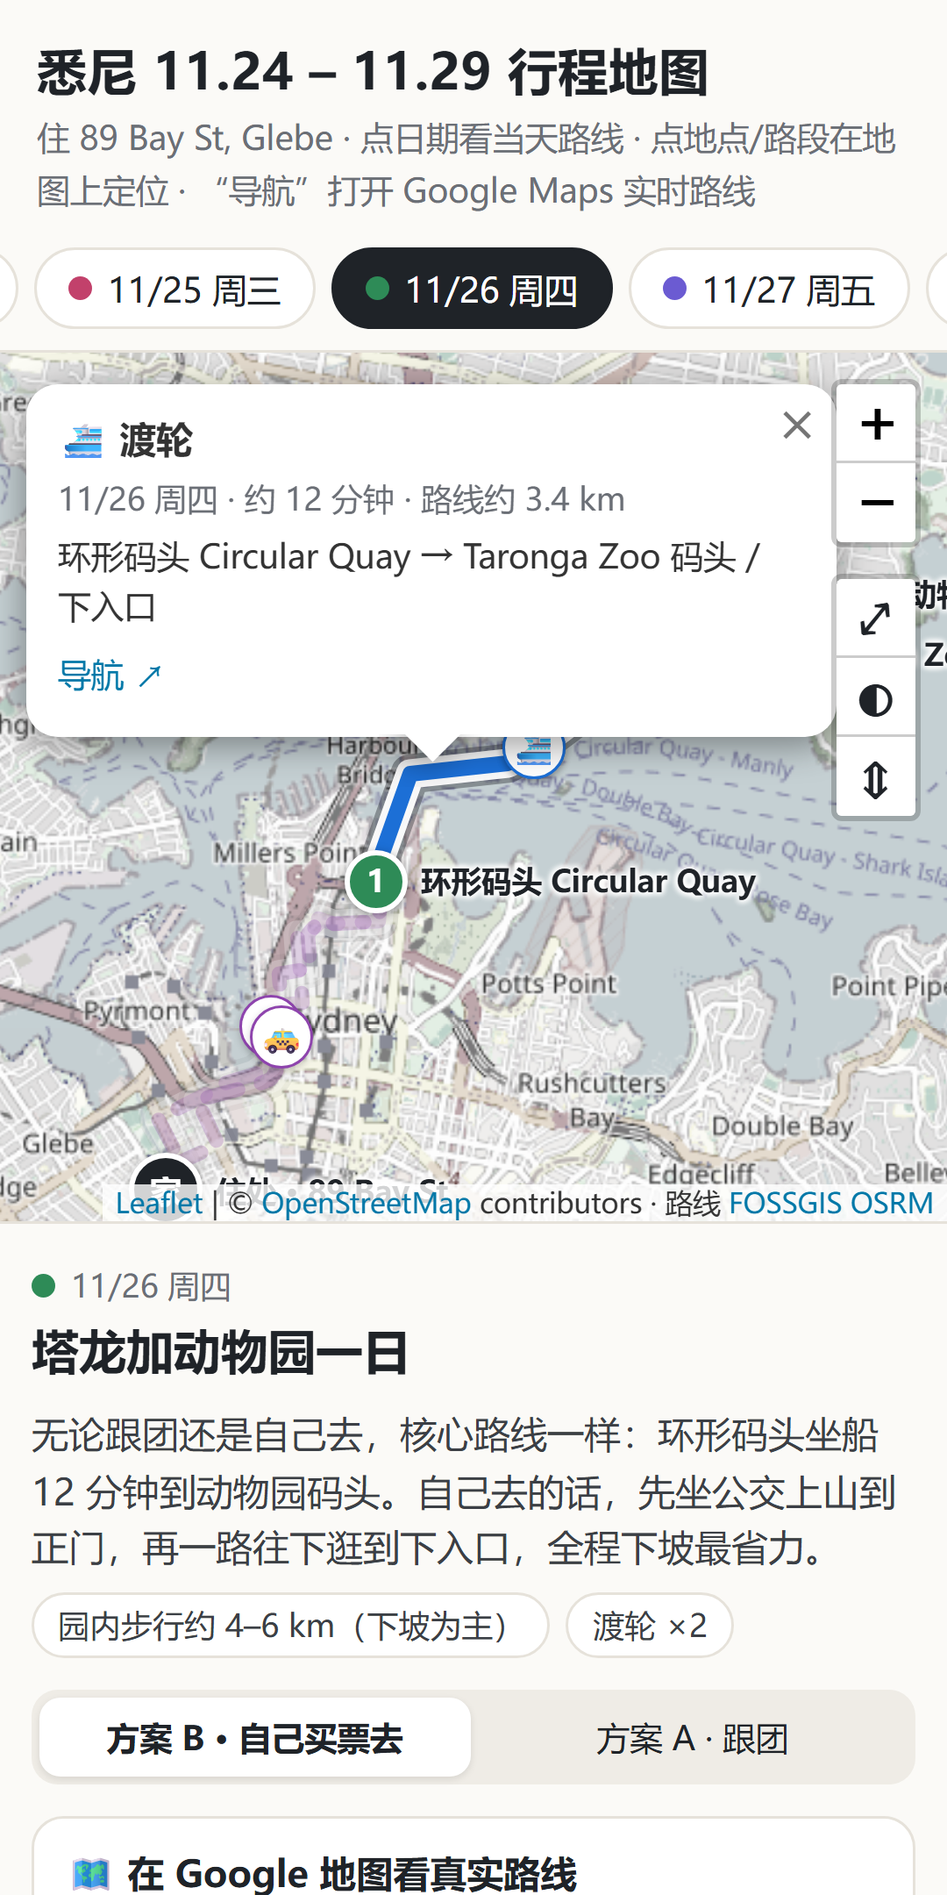
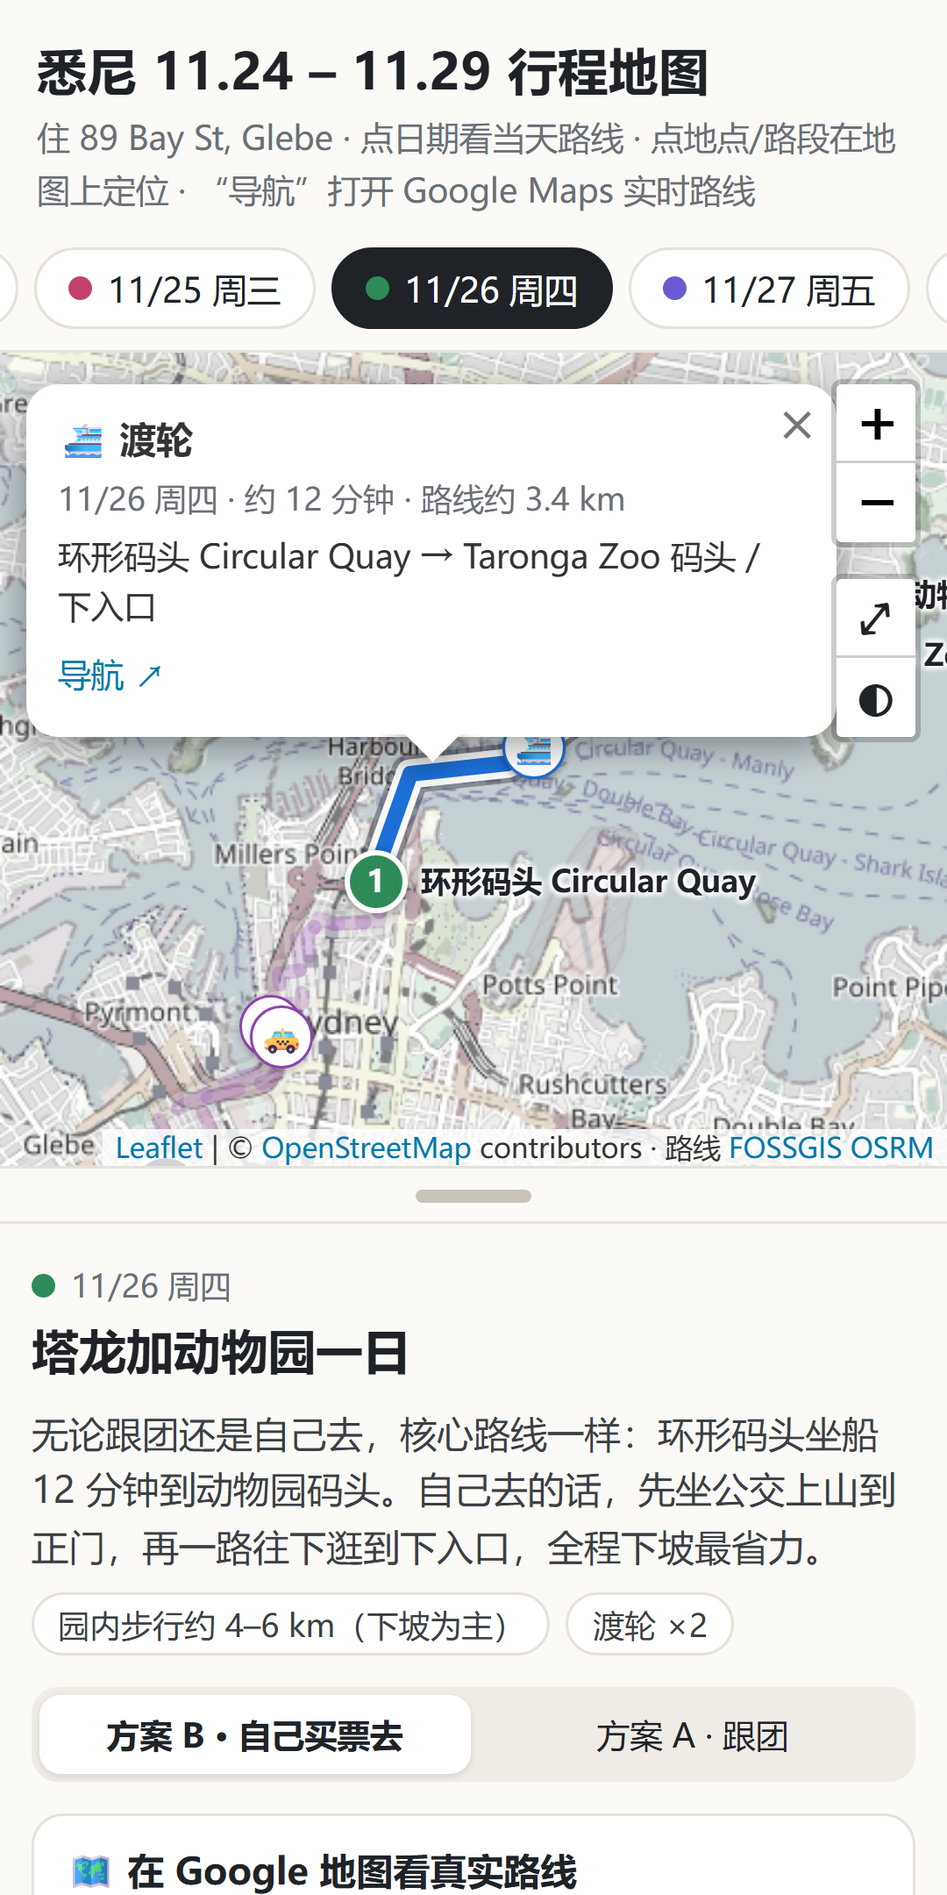
Select a stop without zooming; drag handle to resize map on phones
- Tapping a stop (timeline or map) now only pans the map, keeping the
  current zoom. The stop and the leg that arrives at it are highlighted
  and other legs are dimmed; the matching timeline rows are marked.
- Tapping a leg pans to it at the current zoom and only zooms out when
  the leg does not fit; it never zooms in. Same-zoom moves use panTo
  instead of flyTo, so there is no zoom-out/zoom-in bounce.
- Popups no longer use keepInView, so after selecting a stop the map
  can be dragged away freely instead of snapping back.
- Phones get a drag handle between the map and the timeline (replacing
  the expand button). Dragging resizes the map, a tap toggles between
  the default and a tall map, the height is remembered per device, and
  the handle always stays on screen.

Tests cover these on iPhone 15 Pro, iPhone SE and Mate 40 (181 checks).

diff --git a/app.js b/app.js
@@ -52,11 +52,10 @@ L.control.zoom({position:"topright",zoomInTitle:"放大",zoomOutTitle:"缩小"})
 // 自定义按钮：显示当天全部 / 展开地图（手机）
 const Btns=L.Control.extend({options:{position:"topright"},onAdd(){
   const c=L.DomUtil.create("div","leaflet-bar");
-  c.innerHTML=`<a href="#" class="ctl ctl-fit" title="显示当天全部" aria-label="显示当天全部" role="button">⤢</a><a href="#" class="ctl ctl-base" title="底图：淡化 / 原色" aria-label="切换底图颜色" role="button">◐</a><a href="#" class="ctl ctl-exp" title="展开/收起地图" aria-label="展开地图" role="button">⇕</a>`;
+  c.innerHTML=`<a href="#" class="ctl ctl-fit" title="显示当天全部" aria-label="显示当天全部" role="button">⤢</a><a href="#" class="ctl ctl-base" title="底图：淡化 / 原色" aria-label="切换底图颜色" role="button">◐</a>`;
   L.DomEvent.disableClickPropagation(c);
   c.querySelector(".ctl-fit").onclick=e=>{e.preventDefault();fitDay()};
   c.querySelector(".ctl-base").onclick=e=>{e.preventDefault();const v=mapwrap.classList.toggle("vivid");lsSet("basemap",v?"vivid":"soft")};
-  c.querySelector(".ctl-exp").onclick=e=>{e.preventDefault();toggleBig()};
   return c}});
 new Btns().addTo(map);
 
@@ -185,7 +184,7 @@ map.on("mousemove",e=>{if(coarse)return;cancelAnimationFrame(hoverRaf);hoverRaf=
 map.on("mouseout dragstart zoomstart",hideTip);
 
 /* ---------- 弹窗（autoPan + 宽度随地图，保证不超出地图） ---------- */
-function popOpts(){const w=mapwrap.clientWidth;return{maxWidth:Math.max(160,Math.min(270,w-70)),minWidth:Math.min(170,w-90),autoPan:true,keepInView:true,
+function popOpts(){const w=mapwrap.clientWidth;return{maxWidth:Math.max(160,Math.min(270,w-70)),minWidth:Math.min(170,w-90),autoPan:true,keepInView:false,/* 只在弹窗打开时挪一次，之后可以自由拖走地图 */
   autoPanPaddingTopLeft:L.point(10,isNarrow()?12:56),autoPanPaddingBottomRight:L.point(10,24),closeButton:true,className:"pp"}}
 function openStopPop(d,p){
   const pl=P[p];const items=visibleItems(d).filter(i=>!i.leg&&i.p===p);const it=items[0];
@@ -228,6 +227,7 @@ function flyView(b,o){
   const c=map.unproject(map.project(b.getCenter(),z).add(off),z);
   const far=Math.abs(z-map.getZoom())>.01||map.latLngToContainerPoint(c).distanceTo(sz.divideBy(2))>2;
   if(!far){map.fire("moveend");return}
+  if(Math.abs(z-map.getZoom())<.01){map.panTo(c,{animate:true,duration:.45});return} // 同一缩放只平移，不做 flyTo 的“先缩小再放大”
   try{map.flyTo(c,z,{duration:.55})}catch(e){map.setView(c,z,{animate:false})}
 }
 function flyPoint(ll,z){
@@ -244,12 +244,35 @@ function fitDay(){
   visibleItems(d).forEach(i=>{if(i.leg)legPath(i).forEach(p=>all.push(p));else all.push(P[i.p].ll)});
   fitLL(all,{maxZoom:17,top:isNarrow()?20:30});
 }
-function toggleBig(){
-  mapwrap.classList.toggle("big");const big=mapwrap.classList.contains("big");
-  const b=document.querySelector(".ctl-exp");b.textContent=big?"⇡":"⇕";b.setAttribute("aria-label",big?"收起地图":"展开地图");
-  setTimeout(()=>{map.invalidateSize();setMapH();},260);
+/* ---------- 手机：地图和行程之间的拖动条，上下拖调地图高度；轻点在默认/大半屏之间切换 ---------- */
+const resizer=document.getElementById("resizer");
+let rz=null,rzRaf=0;
+function setMapHeight(px,save){
+  // 最高到拖动条仍留在屏幕里（页面在顶部时标题还占着位置，地图的顶边更低）
+  const top=Math.max(tabs.offsetHeight,mapwrap.getBoundingClientRect().top);
+  const min=160,max=Math.max(min,window.innerHeight-top-40);
+  const h=Math.round(Math.min(max,Math.max(min,px)));
+  document.documentElement.style.setProperty("--mapH",h+"px"); // 同时用于时间线条目的 scroll-margin
+  cancelAnimationFrame(rzRaf);rzRaf=requestAnimationFrame(()=>map.invalidateSize({pan:false}));
+  if(save)lsSet("mapH",(h/window.innerHeight).toFixed(3));
 }
-function setMapH(){document.documentElement.style.setProperty("--mapHpx",mapwrap.offsetHeight+"px")}
+function rzStart(y){rz={y0:y,h0:mapwrap.offsetHeight,moved:false};mapwrap.classList.add("resizing");hideTip()}
+function rzMove(y){if(!rz)return;const dy=y-rz.y0;if(Math.abs(dy)>4)rz.moved=true;if(rz.moved)setMapHeight(rz.h0+dy)}
+function rzEnd(){
+  if(!rz)return;const r=rz;rz=null;mapwrap.classList.remove("resizing");
+  if(!r.moved)setMapHeight(window.innerHeight*(mapwrap.offsetHeight<window.innerHeight*.6?.74:.46),true);
+  else setMapHeight(mapwrap.offsetHeight,true);
+  setTimeout(()=>map.invalidateSize({pan:false}),260);
+}
+// 用触摸事件 + 鼠标事件（iOS / 安卓 / 桌面都支持）
+resizer.addEventListener("touchstart",e=>{if(e.cancelable)e.preventDefault();e.stopPropagation();rzStart(e.touches[0].clientY)},{passive:false});
+document.addEventListener("touchmove",e=>{if(!rz)return;if(e.cancelable)e.preventDefault();rzMove(e.touches[0].clientY)},{passive:false});
+document.addEventListener("touchend",()=>rzEnd());
+document.addEventListener("touchcancel",()=>rzEnd());
+resizer.addEventListener("mousedown",e=>{e.preventDefault();rzStart(e.clientY)});
+document.addEventListener("mousemove",e=>{if(rz)rzMove(e.clientY)});
+document.addEventListener("mouseup",()=>rzEnd());
+function restoreMapH(){const f=parseFloat(lsGet("mapH"));if(isNarrow()&&f>0)setMapHeight(window.innerHeight*f)}
 
 /* ======================= Google Maps 链接（同原页面） ======================= */
 const enc=encodeURIComponent;
@@ -302,8 +325,8 @@ function renderLegend(){
   const used=new Set(legsOf(dayById(state.day)).map(l=>l.mode));
   lg.innerHTML=Object.entries(MODES).filter(([k])=>used.has(k)).map(([k,m])=>`<span>${sw(m,k)}${m.n}</span>`).join("");
 }
-function go(id,push=true){
-  state.day=id;state.sel=null;map.closePopup();renderTabs();renderContent();render();renderLegend();fitDay();
+function go(id,push=true,keepView=false){
+  state.day=id;state.sel=null;map.closePopup();renderTabs();renderContent();render();renderLegend();if(!keepView)fitDay();
   if(push){try{history.replaceState(null,"",id?"#"+id:"#overview")}catch(e){}}
   content.scrollTop=0;if(isNarrow())window.scrollTo({top:0});
 }
@@ -322,7 +345,7 @@ function renderContent(){
       h+=`<li class="leg" data-i="${idx}"><div></div><div class="rail"><i style="border-left-color:${m.c};border-left-style:${it.mode==="walk"?"dotted":"solid"}"></i></div><div class="body"><span class="mode">${m.ic} ${m.n}</span><span>${it.dur}</span>${it.note?`<span>· ${it.note}</span>`:""}${km}${NO_NAV.has(it.to)?"":`<a class="nav" href="${gmDir(it.from,it.to,it.mode)}" target="_blank" rel="noopener">导航 ↗</a>`}${it.alt?`<span class="alt">替代：${it.alt}</span>`:""}</div></li>`;
     }else{const pl=P[it.p];
       const badge=pl.home?`<span class="badge" style="background:#1F2328">家</span>`:`<span class="badge" style="background:${it.extra?"#9AA0A6":d.color}">${num[it.p]}</span>`;
-      h+=`<li class="stop" data-p="${it.p}"><div class="time">${it.t}</div>${badge}<div><h3>${it.h}${it.opt?'<span class="opt">可选</span>':""}</h3><div style="font-size:12px;color:#6B6F76">${pl.n}</div>${it.d?`<p>${it.d}</p>`:""}${it.tip?`<span class="tipline">${it.tip}</span>`:""}</div></li>`;
+      h+=`<li class="stop" data-p="${it.p}" data-i="${idx}"><div class="time">${it.t}</div>${badge}<div><h3>${it.h}${it.opt?'<span class="opt">可选</span>':""}</h3><div style="font-size:12px;color:#6B6F76">${pl.n}</div>${it.d?`<p>${it.d}</p>`:""}${it.tip?`<span class="tipline">${it.tip}</span>`:""}</div></li>`;
     }
   });
   h+=`</ol>`;
@@ -330,12 +353,15 @@ function renderContent(){
   h+=`<div style="display:flex;justify-content:space-between;margin-top:16px">${i>0?`<a href="#" data-go="${DAYS[i-1].id}">← ${DAYS[i-1].date}</a>`:"<span></span>"}${i<DAYS.length-1?`<a href="#" data-go="${DAYS[i+1].id}">${DAYS[i+1].date} →</a>`:`<a href="#" data-go="">回总览</a>`}</div>`;
   content.innerHTML=h;
   content.querySelectorAll(".seg button").forEach(b=>b.onclick=()=>{state.variant[d.id]=b.dataset.v;state.sel=null;map.closePopup();renderContent();render();renderLegend();fitDay()});
-  content.querySelectorAll(".stop").forEach(li=>li.onclick=()=>selectStop(d.id,li.dataset.p,false));
+  content.querySelectorAll(".stop").forEach(li=>li.onclick=()=>selectStop(d.id,li.dataset.p,false,+li.dataset.i));
   const vis=visibleItems(d);
   content.querySelectorAll(".leg").forEach(li=>li.addEventListener("click",e=>{if(e.target.closest("a"))return;
     const lg=vis[+li.dataset.i];const x=legLines.find(o=>o.lg===lg);if(!x)return;
     content.querySelectorAll(".leg.sel,.stop.sel").forEach(e=>e.classList.remove("sel"));
-    fitLL(x.ll,{maxZoom:17});
+    map.closePopup();
+    // 保持当前缩放，只平移到这段路线；这段在当前比例下放不下时才缩小，绝不放大
+    const pad=isNarrow()?L.point(20,24):L.point(56,56);
+    flyView(L.latLngBounds(x.ll),{paddingTopLeft:pad,paddingBottomRight:pad,maxZoom:map.getZoom()});
     map.once("moveend",()=>{openLegPop(x);li.classList.add("sel")});
     scrollMapIntoView();
   }));
@@ -346,16 +372,37 @@ function applySel(){
   markers.forEach(x=>{const e=x.el&&x.el.querySelector(".mk");if(!e)return;e.classList.toggle("sel",x.p===state.sel);e.classList.toggle("dim",!!state.sel&&x.p!==state.sel)});
   markers.forEach(x=>x.m.setZIndexOffset(x.p===state.sel?1000:(P[x.p].home?500:200)));
 }
-function selectStop(dayId,p,fromMap){
-  if(state.day!==dayId)go(dayId);
+// 去这个目的地的路段：从时间线点的（idx）取它前面紧挨着的那段；从地图点的取当天所有到达这里的路段
+function incomingLegs(d,p,idx){
+  const vis=visibleItems(d),q=P[p].sub||p;
+  if(idx!=null){for(let i=idx-1;i>=0;i--)if(vis[i].leg)return vis[i].to===q?[vis[i]]:[];return []}
+  return vis.filter(i=>i.leg&&i.to===q);
+}
+function showIncoming(d,inc){
+  if(!inc.length)return;
+  legLines.forEach(o=>legOpacity(o,inc.includes(o.lg)));
+  legLines.filter(o=>inc.includes(o.lg)).forEach(o=>{o.halo.bringToFront();o.casing.bringToFront();o.line.bringToFront()});
+  const vis=visibleItems(d);
+  inc.forEach(lg=>{const li=content.querySelector(`.leg[data-i="${vis.indexOf(lg)}"]`);if(li)li.classList.add("sel")});
+}
+// 只平移、不改缩放；目的地放在中心偏下，上方给弹窗留位置
+function panKeep(ll,below){
+  const sz=map.getSize();
+  if(!sz.x){map.fire("moveend");return}
+  const c=map.unproject(map.project(ll).subtract([0,Math.round(sz.y*(below??.18))]));
+  if(map.latLngToContainerPoint(c).distanceTo(sz.divideBy(2))<2){map.fire("moveend");return}
+  map.panTo(c,{animate:true,duration:.45});
+}
+function selectStop(dayId,p,fromMap,idx){
+  if(state.day!==dayId)go(dayId,true,true); // 换到那一天，但保持当前缩放
   state.sel=p;applySel();
-  content.querySelectorAll(".stop").forEach(li=>li.classList.toggle("sel",li.dataset.p===p));
-  content.querySelectorAll(".leg.sel").forEach(e=>e.classList.remove("sel"));
+  content.querySelectorAll(".stop").forEach(li=>li.classList.toggle("sel",idx!=null?+li.dataset.i===idx:li.dataset.p===p));
   const d=dayById(dayId);
-  const z=Math.max(map.getZoom(),P[p].sub||p==="bluemtn"?14:16);
-  map.closePopup();
+  map.closePopup(); // 会先把之前的高亮复原
+  content.querySelectorAll(".leg.sel").forEach(e=>e.classList.remove("sel"));
+  showIncoming(d,incomingLegs(d,p,idx));
   map.once("moveend",()=>{openStopPop(d,p);declutter()});
-  flyPoint(P[p].ll,z);
+  panKeep(P[p].ll);
   if(fromMap){const li=content.querySelector(`.stop[data-p="${p}"]`)||content.querySelector(`.stop[data-p="${P[p].sub}"]`);
     if(li){if(!isNarrow())li.scrollIntoView({block:"center",behavior:"smooth"});
       else{const top=li.getBoundingClientRect().top+window.scrollY-(tabs.offsetHeight+mapwrap.offsetHeight+10);window.scrollTo({top,behavior:"smooth"})}}}
@@ -398,10 +445,11 @@ function renderOverview(){
 /* ======================= 启动 ======================= */
 function setTabsH(){document.documentElement.style.setProperty("--tabsH",tabs.offsetHeight+"px")}
 let lastW=window.innerWidth;
-window.addEventListener("resize",()=>{setTabsH();map.invalidateSize();if(Math.abs(window.innerWidth-lastW)>2){lastW=window.innerWidth;fitDay()}});
+window.addEventListener("resize",()=>{setTabsH();if(Math.abs(window.innerWidth-lastW)>2)restoreMapH();map.invalidateSize();if(Math.abs(window.innerWidth-lastW)>2){lastW=window.innerWidth;fitDay()}});
 const h0=(location.hash||"").slice(1);
 go(dayById(h0)?h0:null,false);
 setTabsH(); // 日期标签渲染之后再量高度，地图才会正好吸在日期栏下面
+restoreMapH(); // 手机上恢复上次拖好的地图高度
 if(document.fonts&&document.fonts.ready)document.fonts.ready.then(setTabsH);
 window.addEventListener("hashchange",()=>{const h=(location.hash||"").slice(1);if((dayById(h)?h:null)!==state.day)go(dayById(h)?h:null,false)});
 window.__app={map,state,ROUTES,GEO,go,selectStop,get markers(){return markers},get legLines(){return legLines}}; // 测试用

diff --git a/app.css b/app.css
@@ -25,7 +25,8 @@ nav.tabs::-webkit-scrollbar{display:none}
 .leaflet-container{font:inherit}
 .leaflet-bar a.ctl{font-size:17px;line-height:30px;font-weight:600;color:var(--ink)}
 .leaflet-touch .leaflet-bar a.ctl{line-height:30px}
-.ctl-exp{display:none !important}
+/* 地图和行程之间的拖动条（只在手机布局显示） */
+.resizer{display:none}
 .legend{position:absolute;left:10px;top:10px;z-index:900;transition:opacity .15s;background:rgba(255,255,255,.94);border:1px solid var(--line);border-radius:10px;padding:6px 9px;font-size:11.5px;display:flex;flex-wrap:wrap;gap:3px 11px;max-width:calc(100% - 70px);pointer-events:none;box-shadow:0 1px 3px rgba(0,0,0,.08)}
 .mapwrap.popopen .legend{opacity:0;visibility:hidden} /* 弹窗打开时收起图例，小屏上不会挡住弹窗 */
 .legend span{display:inline-flex;align-items:center;gap:5px;white-space:nowrap}
@@ -124,9 +125,14 @@ nav.tabs::-webkit-scrollbar{display:none}
   header.head{order:1} nav.tabs{order:2} .mapwrap{order:3} .content{order:4}
   header.head{border-right:0;padding:12px 14px 4px}
   nav.tabs{position:sticky;top:0;border-right:0;padding:8px 12px;padding-left:max(12px,env(safe-area-inset-left))}
-  .mapwrap{position:sticky;top:var(--tabsH);height:var(--mapH);z-index:1000;border-bottom:1px solid var(--line);transition:height .22s ease}
-  .mapwrap.big{--mapH:74svh;height:74svh}
-  .ctl-exp{display:block !important}
+  .mapwrap{position:sticky;top:var(--tabsH);height:var(--mapH);z-index:1000;transition:height .22s ease}
+  .mapwrap.resizing{transition:none}
+  #map{bottom:22px}
+  .resizer{display:flex;position:absolute;left:0;right:0;bottom:0;height:22px;align-items:center;justify-content:center;z-index:1001;
+    background:var(--bg);border-top:1px solid var(--line);border-bottom:1px solid var(--line);cursor:row-resize;touch-action:none;
+    -webkit-user-select:none;user-select:none;-webkit-tap-highlight-color:transparent}
+  .resizer span{width:44px;height:5px;border-radius:3px;background:#C9C3B8;transition:background .15s,width .15s}
+  .mapwrap.resizing .resizer span{background:#8E877A;width:60px}
   .leg .nav{padding:3px 10px;font-size:12.5px}
   .tab{padding:6px 12px}
   .stop{padding:10px 6px}

diff --git a/index.html b/index.html
@@ -19,6 +19,7 @@
   <section class="content" id="content"></section>
   <main class="mapwrap" id="mapwrap">
     <div id="map" aria-label="行程地图"></div>
+    <div class="resizer" id="resizer" role="separator" aria-orientation="horizontal" aria-label="上下拖动调整地图高度" title="上下拖动调整地图高度；轻点在两种高度间切换"><span></span></div>
     <div class="legend" id="legend"></div>
     <div id="tip" role="tooltip"></div>
   </main>

diff --git a/tests/check.py b/tests/check.py
@@ -107,9 +107,10 @@ def desktop(pw):
           page.evaluate("__app.state.sel"))
     # 点路段（时间线）→ 显示交通方式
     page.evaluate("__app.go('day2')"); wait_idle(page, 1000)
+    z0 = page.evaluate("__app.map.getZoom()")
     page.click(".leg:has-text('渡轮') .mode"); page.wait_for_timeout(1400)
-    pi = popup_inside(page)
-    check("[桌面] 时间线点路段 → 地图缩放到该段并弹出交通方式", pi and "渡轮" in pi["text"] and pi["inside"], str(pi))
+    pi = popup_inside(page); z1 = page.evaluate("__app.map.getZoom()")
+    check("[桌面] 时间线点路段 → 平移到该段（不放大）并弹出交通方式", pi and "渡轮" in pi["text"] and pi["inside"] and z1 <= z0 + 1e-6, f"zoom {z0}->{z1} {pi}")
     page.screenshot(path=str(OUT / "desktop-leg-popup.png"))
     # 地图上点路段
     page.evaluate("__app.go('day2')"); wait_idle(page, 1200)
@@ -218,19 +219,57 @@ def mobile(pw, key):
         pi = popup_inside(page)
         check(f"[{tag}] {p} 弹窗在地图范围内", pi and pi["inside"], str(pi))
     shot("popup")
-    # 时间线点地点（手机）
+    # 时间线点地点（手机）：只平移不缩放；高亮这个点和去它的路段；之后能自由拖走地图
+    page.evaluate("__app.go('day2')"); wait_idle(page, 1200)
+    page.evaluate("__app.map.setZoom(14,{animate:false})"); page.wait_for_timeout(500)
     page.evaluate("window.scrollTo(0, 700)"); page.wait_for_timeout(300)
+    z0 = page.evaluate("__app.map.getZoom()")
     page.locator(".stop[data-p='westfield']").tap(); page.wait_for_timeout(1400)
-    check(f"[{tag}] 时间线点地点 → 地图定位并弹窗", page.evaluate("__app.state.sel") == "westfield" and popup_inside(page) is not None)
-    # 展开地图
+    z1 = page.evaluate("__app.map.getZoom()")
+    check(f"[{tag}] 时间线点地点 → 平移过去、缩放不变、弹窗", page.evaluate("__app.state.sel") == "westfield" and popup_inside(page) is not None and abs(z1 - z0) < 1e-6,
+          f"zoom {z0}->{z1}")
+    hl = page.evaluate("""() => __app.legLines.map(o => ({k:`${o.lg.from}>${o.lg.to}`, op:o.line.options.opacity}))""")
+    on = [x["k"] for x in hl if x["op"] >= 0.99]; off = [x for x in hl if x["op"] < 0.5]
+    check(f"[{tag}] 高亮去这个地点的路段（其余变淡）", on == ["hydepark>westfield"] and len(off) == len(hl) - 1, f"高亮 {on}")
+    sel_ok = page.evaluate("document.querySelector('.leg.sel') && document.querySelector('.leg.sel').innerText.includes('步行')")
+    check(f"[{tag}] 时间线里对应路段同时标出", bool(sel_ok))
+    shot("stop-selected")
+    # 选中后拖走地图，不应被拉回到选中的地点
+    box = page.locator("#map").bounding_box(); cx, cy = box["x"] + box["width"] / 2, box["y"] + box["height"] * 0.85  # 从弹窗下方开始拖
+    p0 = page.evaluate("(()=>{const p=__app.map.latLngToContainerPoint(P.westfield.ll);return [p.x,p.y]})()")
+    fingers.start([(cx, cy)])
+    for i in range(1, 13): fingers.move([(cx - 12 * i, cy - 4 * i)]); page.wait_for_timeout(16)
+    fingers.end(); page.wait_for_timeout(1200)
+    p1 = page.evaluate("(()=>{const p=__app.map.latLngToContainerPoint(P.westfield.ll);return [p.x,p.y]})()")
+    check(f"[{tag}] 选中后可以自由拖动地图（不会弹回）", p1[0] < p0[0] - 100, f"标记 x {p0[0]:.0f} -> {p1[0]:.0f}")
+    page.evaluate("__app.map.closePopup()")
+    # 地图和行程之间的拖动条
     page.evaluate("window.scrollTo(0, 0)"); page.wait_for_timeout(300)
-    h0 = page.evaluate("document.getElementById('mapwrap').offsetHeight")
-    page.locator(".ctl-exp").tap(); page.wait_for_timeout(700)
-    h1 = page.evaluate("document.getElementById('mapwrap').offsetHeight")
-    check(f"[{tag}] 展开地图到大半屏", h1 > VH * 0.68 and h1 > h0 + 150, f"{h0}px -> {h1}px")
-    wait_idle(page, 600)
-    shot("expanded")
-    page.locator(".ctl-exp").tap(); page.wait_for_timeout(600)
+    def handle_y(): b = page.locator("#resizer").bounding_box(); return b["x"] + b["width"] / 2, b["y"] + b["height"] / 2
+    h0 = page.evaluate("document.getElementById('mapwrap').offsetHeight"); z0 = page.evaluate("__app.map.getZoom()")
+    hx, hy = handle_y(); fingers.start([(hx, hy)])
+    for i in range(1, 11): fingers.move([(hx, hy + 18 * i)]); page.wait_for_timeout(16)
+    fingers.end(); page.wait_for_timeout(500)
+    h1 = page.evaluate("document.getElementById('mapwrap').offsetHeight"); y1 = page.evaluate("scrollY")
+    hb = page.locator("#resizer").bounding_box()
+    check(f"[{tag}] 往下拖拖动条 → 地图变高、页面不滚动、拖动条仍在屏幕内", h1 > h0 + 100 and y1 == 0 and hb["y"] + hb["height"] <= VH,
+          f"{h0}px -> {h1}px, scrollY {y1}, 拖动条底边 {hb['y'] + hb['height']:.0f}/{VH}")
+    wait_idle(page, 600); shot("expanded")
+    hx, hy = handle_y(); fingers.start([(hx, hy)])
+    for i in range(1, 11): fingers.move([(hx, hy - 26 * i)]); page.wait_for_timeout(16)
+    fingers.end(); page.wait_for_timeout(500)
+    h2 = page.evaluate("document.getElementById('mapwrap').offsetHeight")
+    check(f"[{tag}] 往上拖拖动条 → 地图变矮（下面行程变多）", h2 < h1 - 200 and h2 >= 160, f"{h1}px -> {h2}px")
+    shot("collapsed")
+    page.reload(); page.wait_for_function("window.__app"); page.wait_for_timeout(1200)
+    h3 = page.evaluate("document.getElementById('mapwrap').offsetHeight")
+    check(f"[{tag}] 刷新后记住拖好的高度", abs(h3 - h2) < 4, f"{h2}px / 刷新后 {h3}px")
+    hx, hy = handle_y(); page.touchscreen.tap(hx, hy); page.wait_for_timeout(600)
+    h4 = page.evaluate("document.getElementById('mapwrap').offsetHeight")
+    check(f"[{tag}] 轻点拖动条 → 切到大半屏", h4 > VH * 0.66, f"{h3}px -> {h4}px")
+    hx, hy = handle_y(); page.touchscreen.tap(hx, hy); page.wait_for_timeout(600)
+    h5 = page.evaluate("document.getElementById('mapwrap').offsetHeight")
+    check(f"[{tag}] 再轻点 → 回到默认高度", abs(h5 - VH * 0.46) < 6, f"{h4}px -> {h5}px")
     # 地图上点路段
     page.evaluate("__app.go('day3')"); wait_idle(page, 1300)
     mid = page.evaluate("""() => { const x=__app.legLines.find(o=>o.lg.mode==='ferry'); const m=__app.map;
